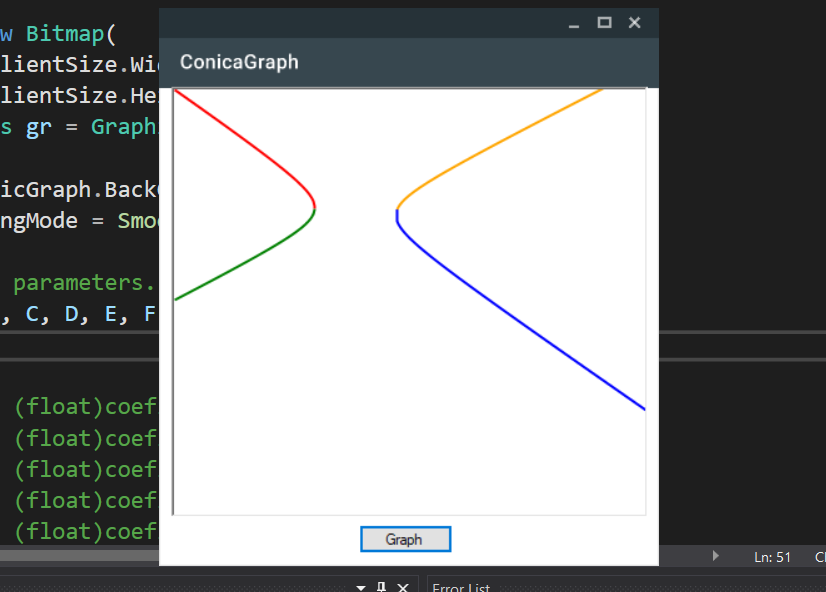
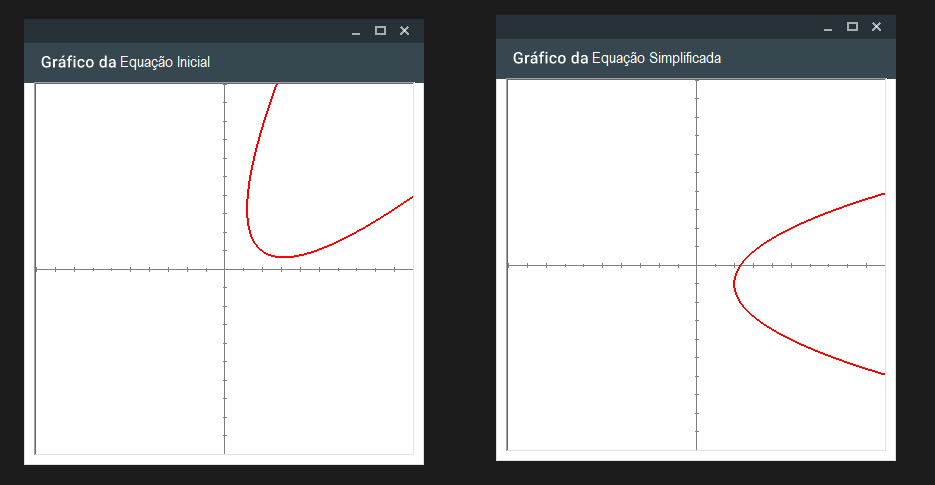
Final details + image for graphing

diff --git a/Conicas/ConicaGraph.Designer.cs b/Conicas/ConicaGraph.Designer.cs
@@ -65,9 +65,9 @@ namespace Conicas
             // lblTipoDeGrafico
             // 
             this.lblTipoDeGrafico.BackColor = System.Drawing.Color.FromArgb(((int)(((byte)(54)))), ((int)(((byte)(71)))), ((int)(((byte)(79)))));
-            this.lblTipoDeGrafico.Font = new System.Drawing.Font("Microsoft Sans Serif", 12F, System.Drawing.FontStyle.Bold, System.Drawing.GraphicsUnit.Point, ((byte)(0)));
+            this.lblTipoDeGrafico.Font = new System.Drawing.Font("Arial Narrow", 12F, System.Drawing.FontStyle.Regular, System.Drawing.GraphicsUnit.Point, ((byte)(0)));
             this.lblTipoDeGrafico.ForeColor = System.Drawing.Color.White;
-            this.lblTipoDeGrafico.Location = new System.Drawing.Point(170, 32);
+            this.lblTipoDeGrafico.Location = new System.Drawing.Point(122, 39);
             this.lblTipoDeGrafico.Name = "lblTipoDeGrafico";
             this.lblTipoDeGrafico.Size = new System.Drawing.Size(351, 25);
             this.lblTipoDeGrafico.TabIndex = 17;
@@ -81,7 +81,7 @@ namespace Conicas
             this.Controls.Add(this.panel1);
             this.Icon = ((System.Drawing.Icon)(resources.GetObject("$this.Icon")));
             this.Name = "ConicaGraph";
-            this.Text = "Gráfico";
+            this.Text = "Gráfico da ";
             this.Load += new System.EventHandler(this.ConicaGraph_Load_1);
             ((System.ComponentModel.ISupportInitialize)(this.picGraph)).EndInit();
             this.panel1.ResumeLayout(false);

diff --git a/Conicas/ElementosGeometricos.cs b/Conicas/ElementosGeometricos.cs
@@ -191,7 +191,7 @@ namespace Conicas
             // verificando onde esta o eixo maior
 
             // os focos da hiperbole estarao no eixo X se
-            if (Math.Abs(coeficientes[0]) > Math.Abs(coeficientes[2]))
+            if (Math.Abs(coeficientes[0]) >= Math.Abs(coeficientes[2]))
             {
                 a = Math.Sqrt(Math.Abs(coeficientes[0]));
                 b = Math.Sqrt(Math.Abs(coeficientes[2]));
@@ -199,13 +199,13 @@ namespace Conicas
 
                 // excentricidade
                 exct = c / a;
-                detalhes += "Excentricidade: " + exct;
+                detalhes += "\nExcentricidade: " + exct;
 
                 // Focos
-                detalhes += "Focos:  F1(" + X + "," + (c + Y) + ") e" + "F2(" + X + ", -" + (c + Y) + ")";
+                detalhes += "\nFocos:  F1(" + X + "," + (c + Y) + ") e" + "F2(" + X + ", -" + (c + Y) + ")";
 
                 // Vertices
-                detalhes += "Vertices:  V1(" + X + "," + (a + Y) + ") e" + "V2(" + X + ", -" + (a + Y) + ")";
+                detalhes += "\nVertices:  V1(" + X + "," + (a + Y) + ") e" + "V2(" + X + ", -" + (a + Y) + ")";
 
                 // Assintotas
                 detalhes += "\nAssintotas: y= +" + b + "/" + a + "x ou y= -" + b + "/" + a + "x";

diff --git a/Conicas/ConicaGraph.cs b/Conicas/ConicaGraph.cs
@@ -31,6 +31,7 @@ namespace Conicas
                 gr.Clear(Color.White);
 
                 Rectangle rect = new Rectangle(-10, -10, 20, 20); // function scale
+
                 Point[] pts = new Point[]
                 {
                     new Point(0, picGraph.ClientSize.Height),
@@ -44,7 +45,7 @@ namespace Conicas
                 {
                     gr.DrawLine(axis_pen, -20, 0, 20, 0);
                     gr.DrawLine(axis_pen, 0, -20, 0, 20);
-                    for (int i = -2; i <= 2; i++)
+                    for (int i = -20; i <= 20; i++)// axis bars
                     {
                         gr.DrawLine(axis_pen, i, -0.1f, i, 0.1f);
                         gr.DrawLine(axis_pen, -0.1f, i, 0.1f, i);
@@ -92,7 +93,7 @@ namespace Conicas
         private void PlotFunction(Graphics gr, FofXY func, float dx, float dy)
         {
             // Plot the function.
-            using (Pen thin_pen = new Pen(Color.Black, 0))
+            using (Pen thin_pen = new Pen(Color.Red, 0))
             {
                 // Horizontal comparisons.
                 for (float x = -20f; x <= 20f; x += dx)
